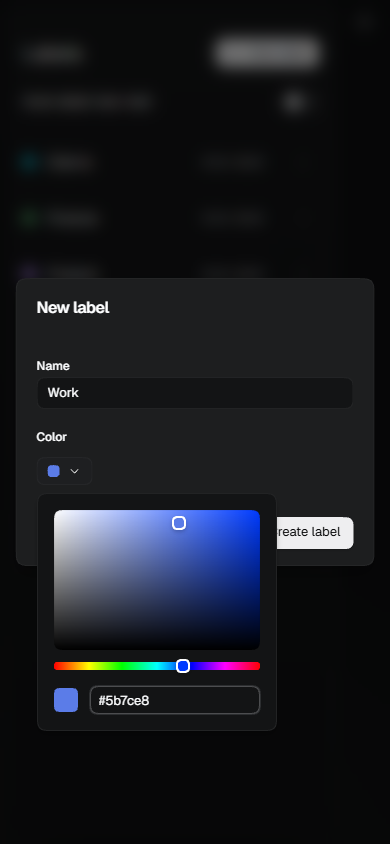
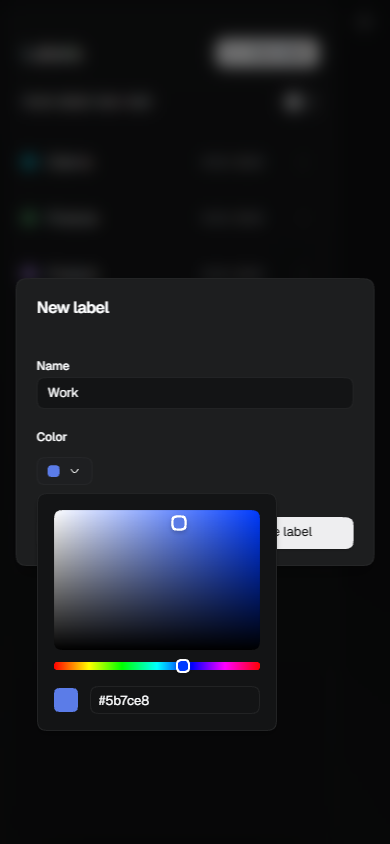
style(ui): fill dialog footer width with equal actions

diff --git a/apps/web/src/components/consent/consent-preferences-dialog.tsx b/apps/web/src/components/consent/consent-preferences-dialog.tsx
@@ -69,8 +69,8 @@ const ConsentPreferencesDialogContent = () => {
       </DialogBody>
 
       <DialogFooter
-        // oxlint-disable-next-line shadcn/no-restyle -- Consent footer keeps its stacked-split actions.
-        className="flex-col gap-2 sm:flex-row sm:justify-between"
+        // oxlint-disable-next-line shadcn/no-restyle -- Three consent actions stack on narrow screens.
+        className="grid-flow-row sm:grid-flow-col"
       >
         <Button
           onClick={() => {
@@ -83,27 +83,25 @@ const ConsentPreferencesDialogContent = () => {
           {translations.common.rejectAll}
         </Button>
 
-        <div className="flex flex-wrap items-center justify-end gap-2">
-          <Button
-            onClick={() => {
-              void saveCustomPreferences();
-            }}
-            size="sm"
-            type="button"
-            variant="outline"
-          >
-            {translations.common.save}
-          </Button>
-          <Button
-            onClick={() => {
-              void performDialogAction("accept");
-            }}
-            size="sm"
-            type="button"
-          >
-            {translations.common.acceptAll}
-          </Button>
-        </div>
+        <Button
+          onClick={() => {
+            void saveCustomPreferences();
+          }}
+          size="sm"
+          type="button"
+          variant="outline"
+        >
+          {translations.common.save}
+        </Button>
+        <Button
+          onClick={() => {
+            void performDialogAction("accept");
+          }}
+          size="sm"
+          type="button"
+        >
+          {translations.common.acceptAll}
+        </Button>
       </DialogFooter>
     </DialogContent>
   );

diff --git a/packages/ui/src/components/ui/alert-dialog.tsx b/packages/ui/src/components/ui/alert-dialog.tsx
@@ -82,7 +82,10 @@ export const AlertDialogFooter = ({
   ...props
 }: ComponentPropsWithoutRef<"div">) => (
   <div
-    className={cn("flex items-center justify-end gap-2 px-5 py-4", className)}
+    className={cn(
+      "grid auto-cols-fr grid-flow-col items-center gap-2 px-5 py-4",
+      className
+    )}
     {...props}
   />
 );

diff --git a/packages/ui/src/components/ui/dialog.tsx b/packages/ui/src/components/ui/dialog.tsx
@@ -82,7 +82,10 @@ export const DialogFooter = ({
   ...props
 }: ComponentPropsWithoutRef<"div">) => (
   <div
-    className={cn("flex items-center justify-end gap-2 px-5 py-4", className)}
+    className={cn(
+      "grid auto-cols-fr grid-flow-col items-center gap-2 px-5 py-4",
+      className
+    )}
     {...props}
   />
 );
